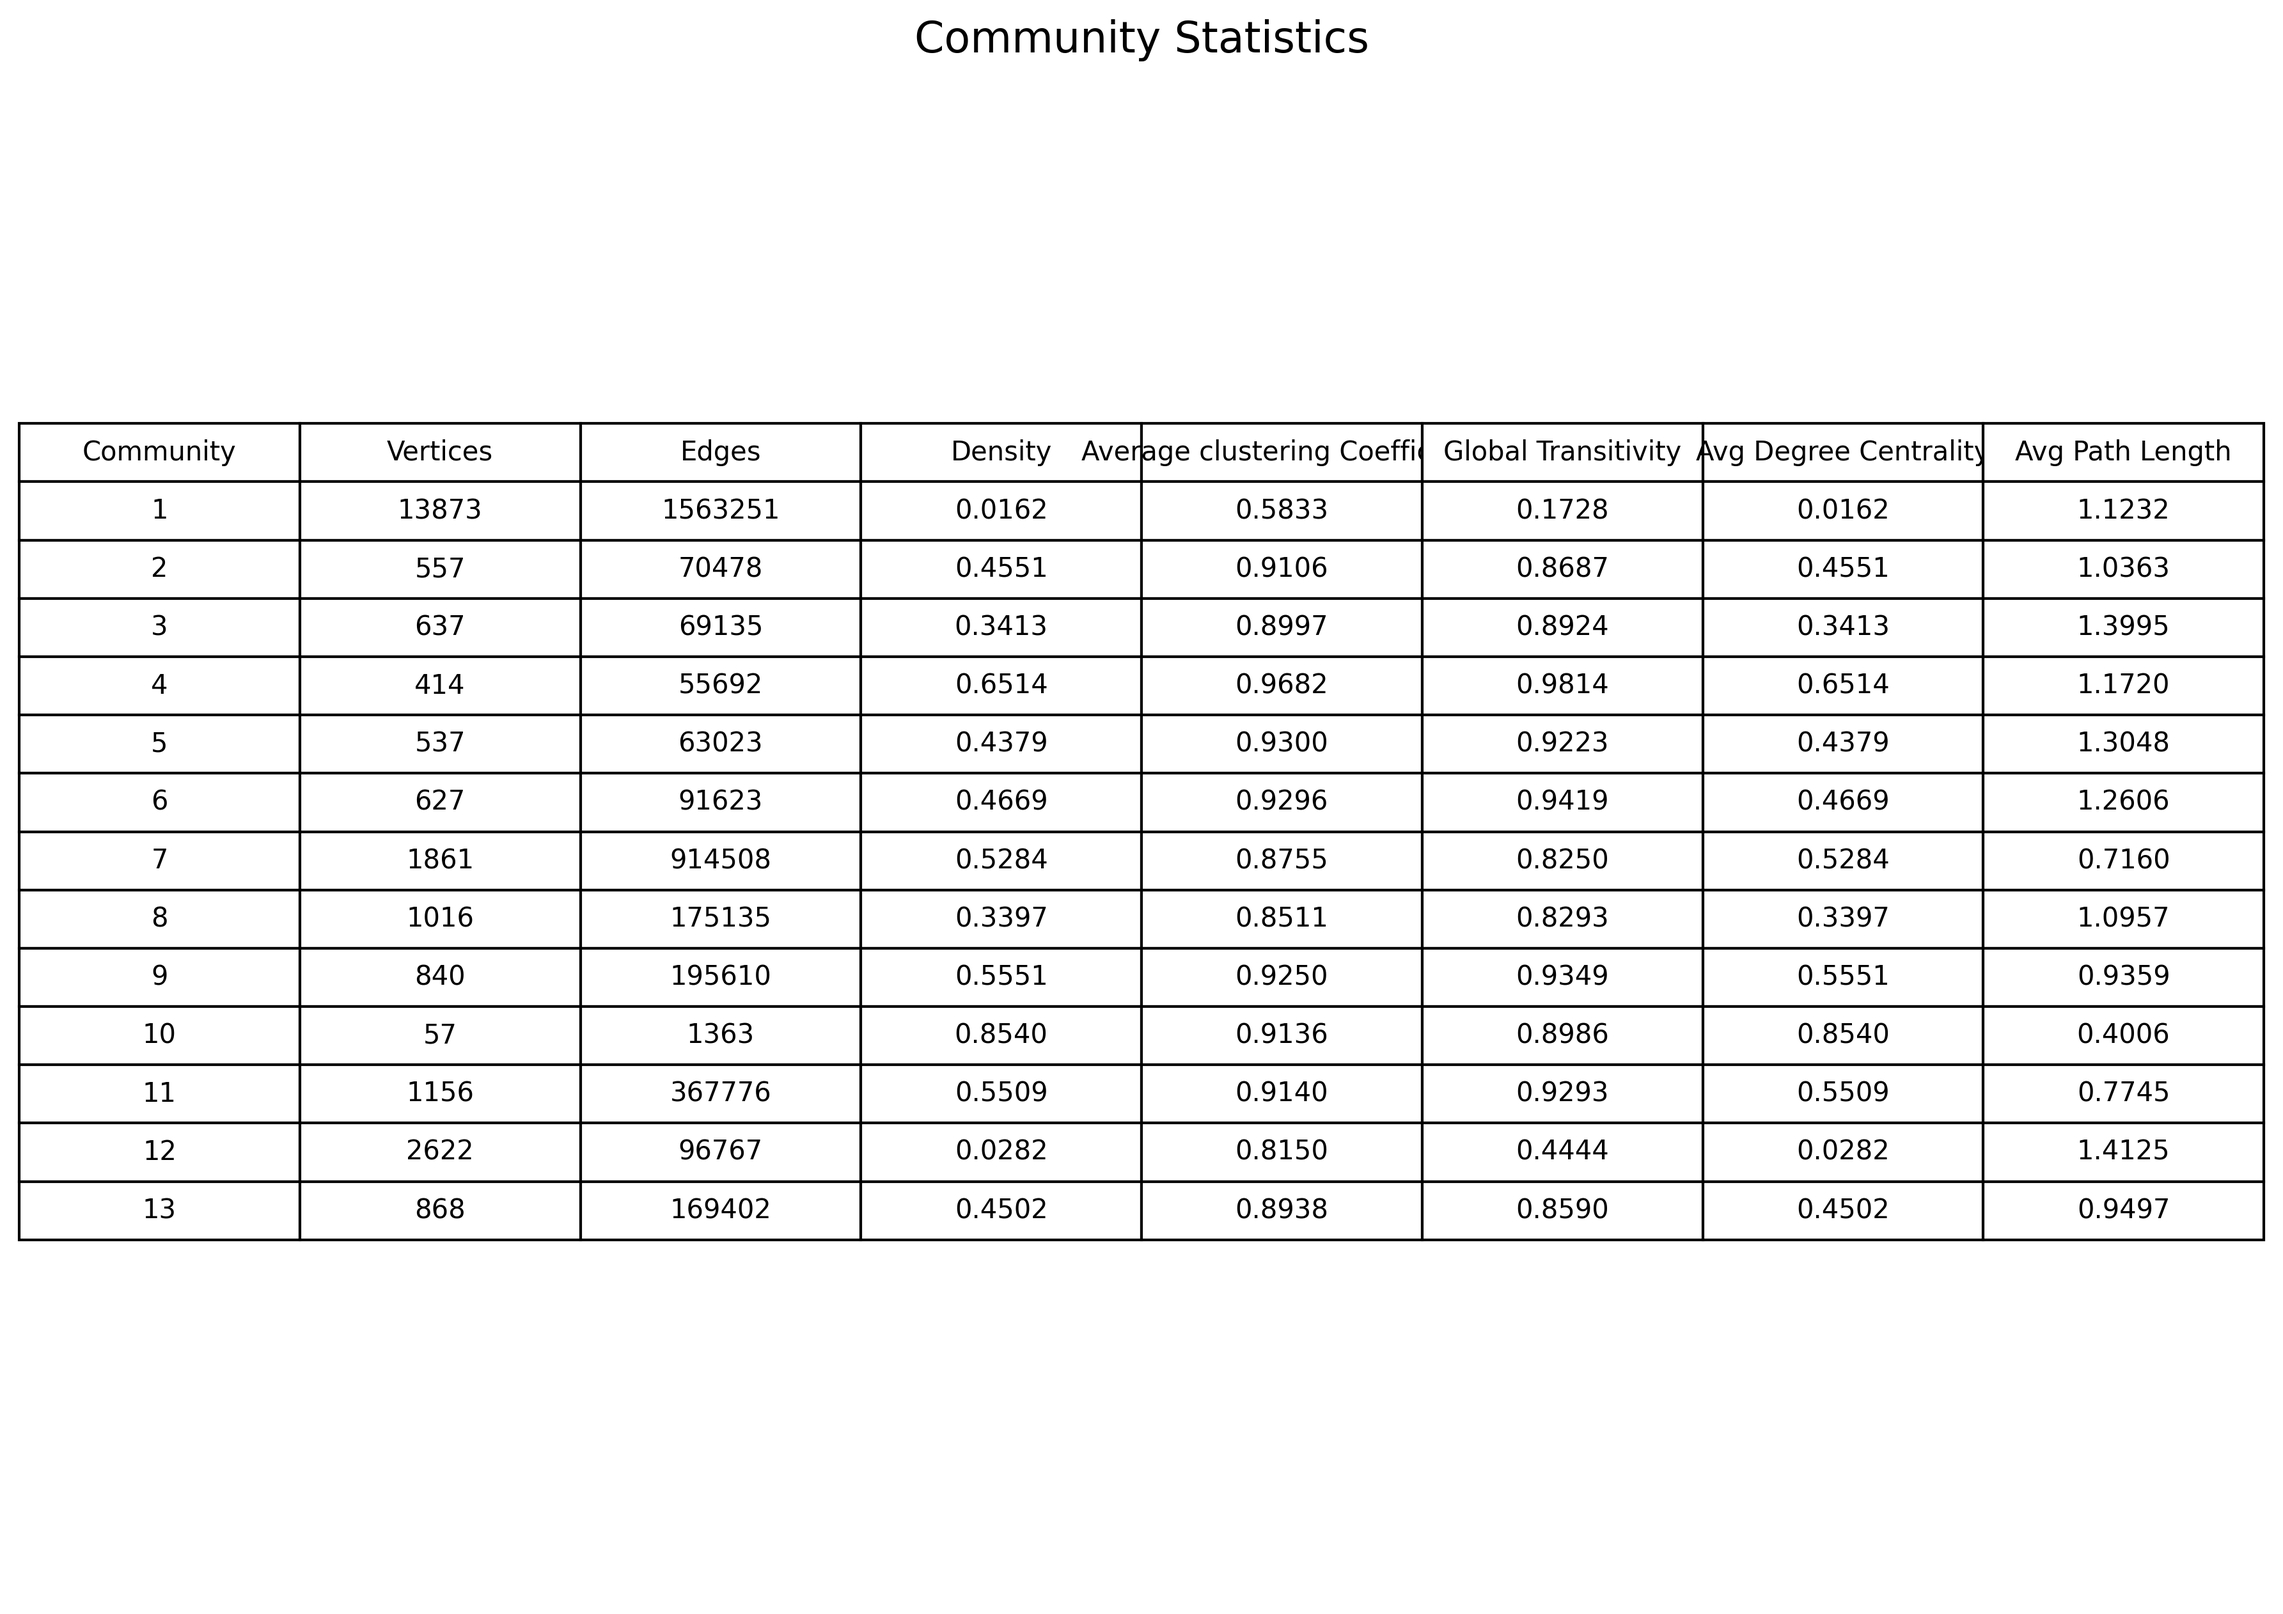
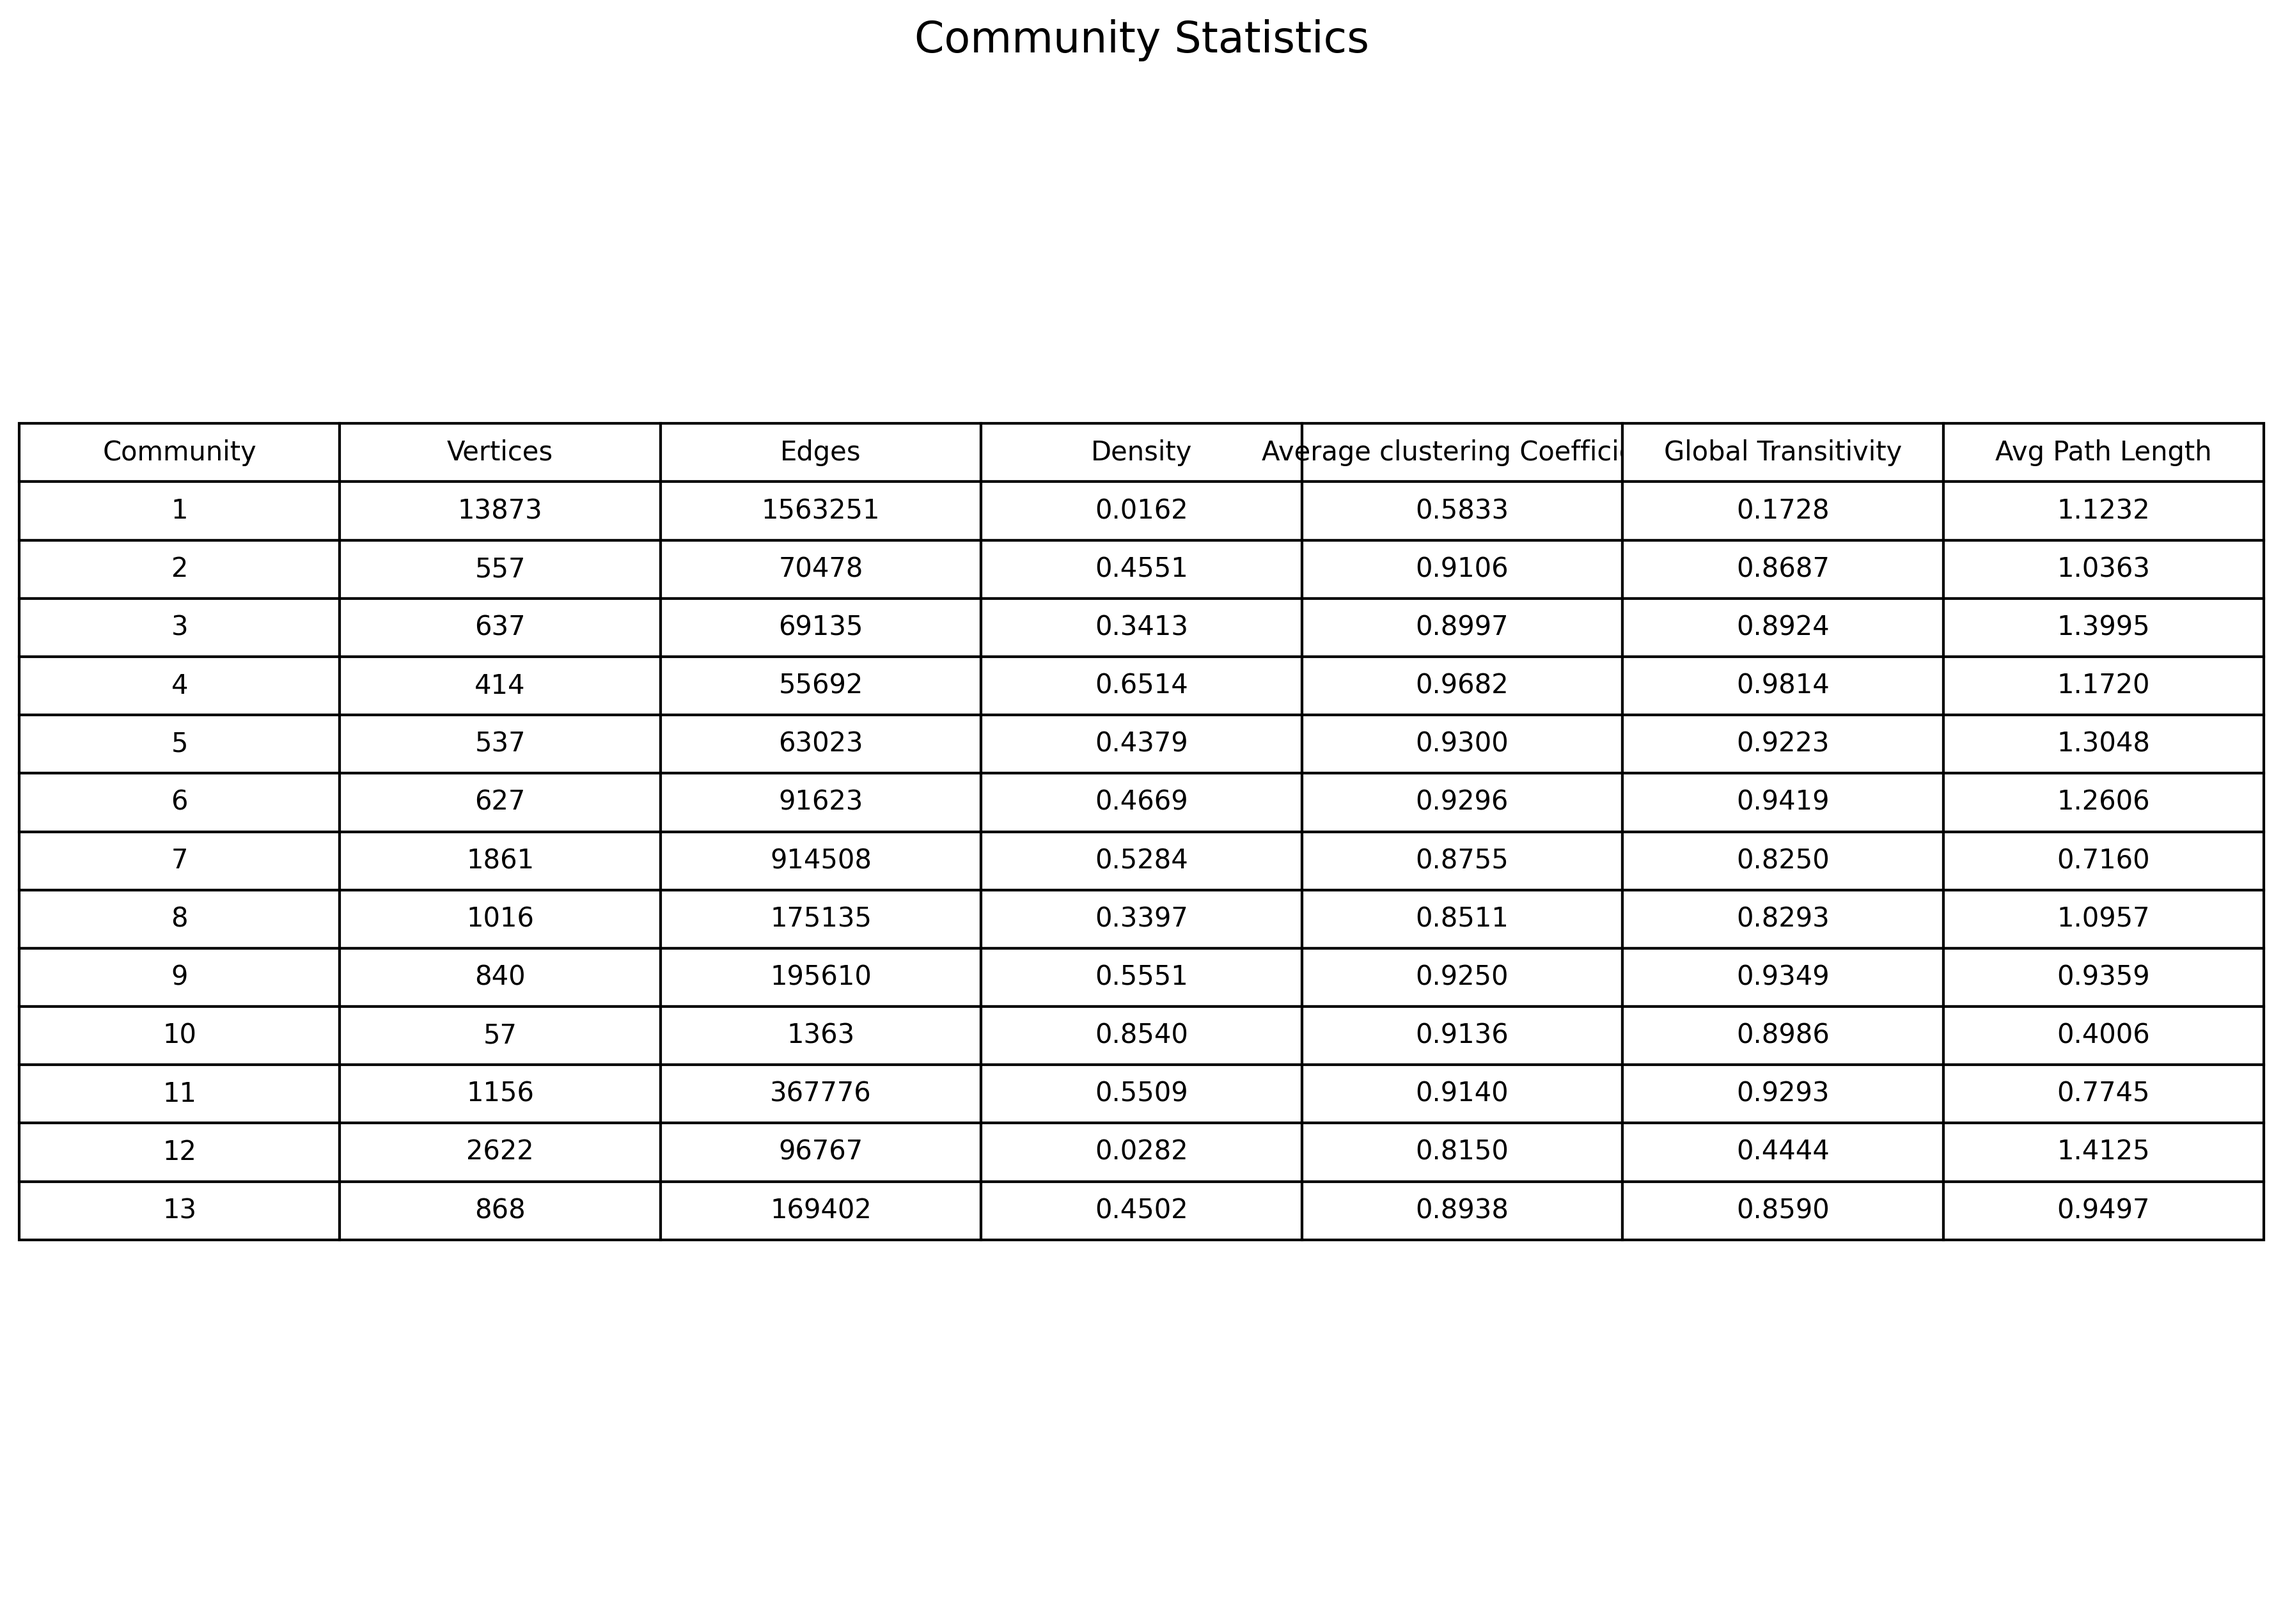
Now that average degree centrality was fixed, I realized that density is equal to average degree centrality and therefore average degree centrality is not needed.

diff --git a/code/Roope_scripts.py b/code/Roope_scripts.py
@@ -772,7 +772,6 @@ def create_community_statistics_table(communities: list[Graph], community_dir: s
         num_edges = len(list(comm.edges()))
         density = (2*num_edges) / (num_nodes*(num_nodes-1))
         
-        avg_degree_centrality = (sum(list(nx.get_node_attributes(comm, DEGREE_CEN_ATTR).values()))) / num_nodes
         global_transitivity = -1
         avg_path_length = -1
         with open(f"{community_dir}{id}.csv") as file:
@@ -792,7 +791,6 @@ def create_community_statistics_table(communities: list[Graph], community_dir: s
             'Density': density,
             'Average clustering Coefficient': avg_cluster,
             'Global Transitivity': global_transitivity,
-            'Avg Degree Centrality': avg_degree_centrality,
             'Avg Path Length': avg_path_length
         }
         table_data.append(row)
@@ -814,7 +812,6 @@ def create_community_statistics_table(communities: list[Graph], community_dir: s
             f"{row['Density']:.4f}",
             f"{row['Average clustering Coefficient']:.4f}",
             f"{row['Global Transitivity']:.4f}",
-            f"{row['Avg Degree Centrality']:.4f}",
             f"{row['Avg Path Length']:.4f}" if row['Avg Path Length'] != 'N/A' else 'N/A'
         ])
 
